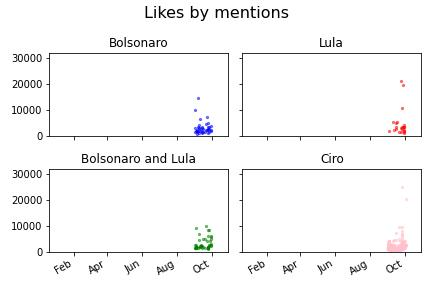
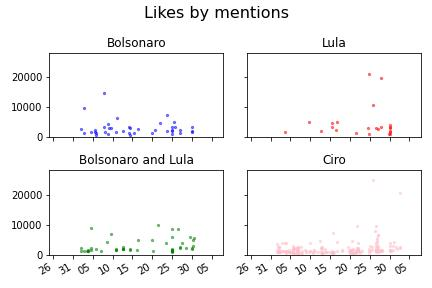
adjust september chart

diff --git a/twitter_analytics_-_ciro_gomes.py b/twitter_analytics_-_ciro_gomes.py
@@ -70,10 +70,17 @@ def to_plot(df, ylimit):
     fig.suptitle('Likes by mentions', fontsize=16)
     fig.autofmt_xdate()
     
-    for ax in axs.flat:
-        ax.set_xlim([datetime.date(2021, 12, 20), datetime.date(2022, 10, 30)])
-        ax.xaxis.set_major_formatter(mdates.DateFormatter('%b'))
-        ax.xaxis.set_major_locator(mdates.MonthLocator(interval=2))
+    if ylimit == 28000:
+        for ax in axs.flat:
+            ax.set_xlim([datetime.date(2022, 8, 25), datetime.date(2022, 10, 8)])
+            ax.xaxis.set_major_formatter(mdates.DateFormatter('%d'))
+            ax.xaxis.set_major_locator(mdates.DayLocator(interval=5))
+            
+    else:    
+        for ax in axs.flat:
+            ax.set_xlim([datetime.date(2021, 12, 20), datetime.date(2022, 10, 30)])
+            ax.xaxis.set_major_formatter(mdates.DateFormatter('%b'))
+            ax.xaxis.set_major_locator(mdates.MonthLocator(interval=2))
     
     plt.setp(axs, ylim=(0, ylimit))
     plt.tight_layout()
